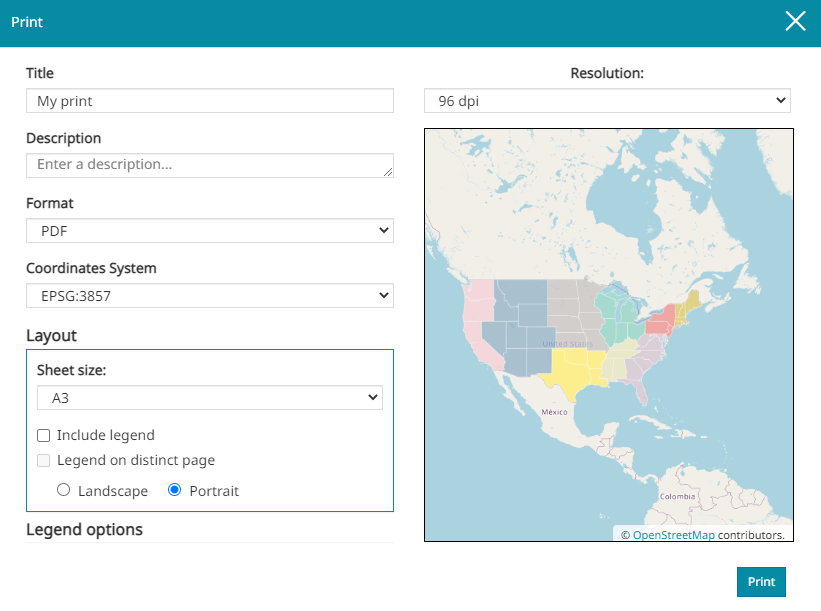
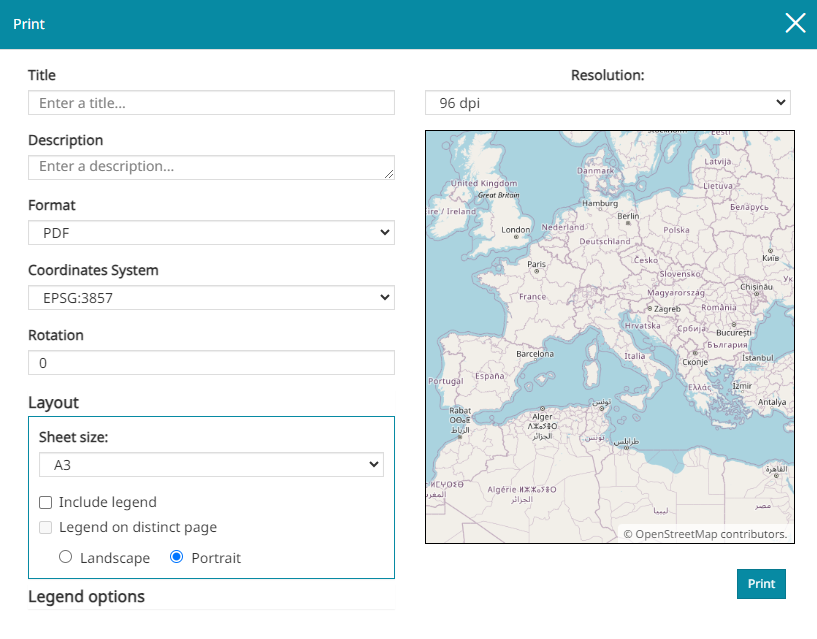
update_9475

Changed region(s): [[0.0306, 0.0933, 0.9792, 0.9951], [0.9486, 0.0, 0.9792, 0.0622], [0.0, 0.0311, 0.0612, 0.0622]]

diff --git a/docs/user-guide/print.md b/docs/user-guide/print.md
@@ -20,6 +20,8 @@ Through this window it is possible to:
 
 * Change the **Coordinates System** (`EPSG:3857`, `EPSG:4326`)
 
+* Change the **Rotation** of the map (value in degrees)
+
 * Change the **Resolution** of the print (`96 dpi`, `150 dpi`, `300 dpi`)
 
 * Accessing **Layout** settings
